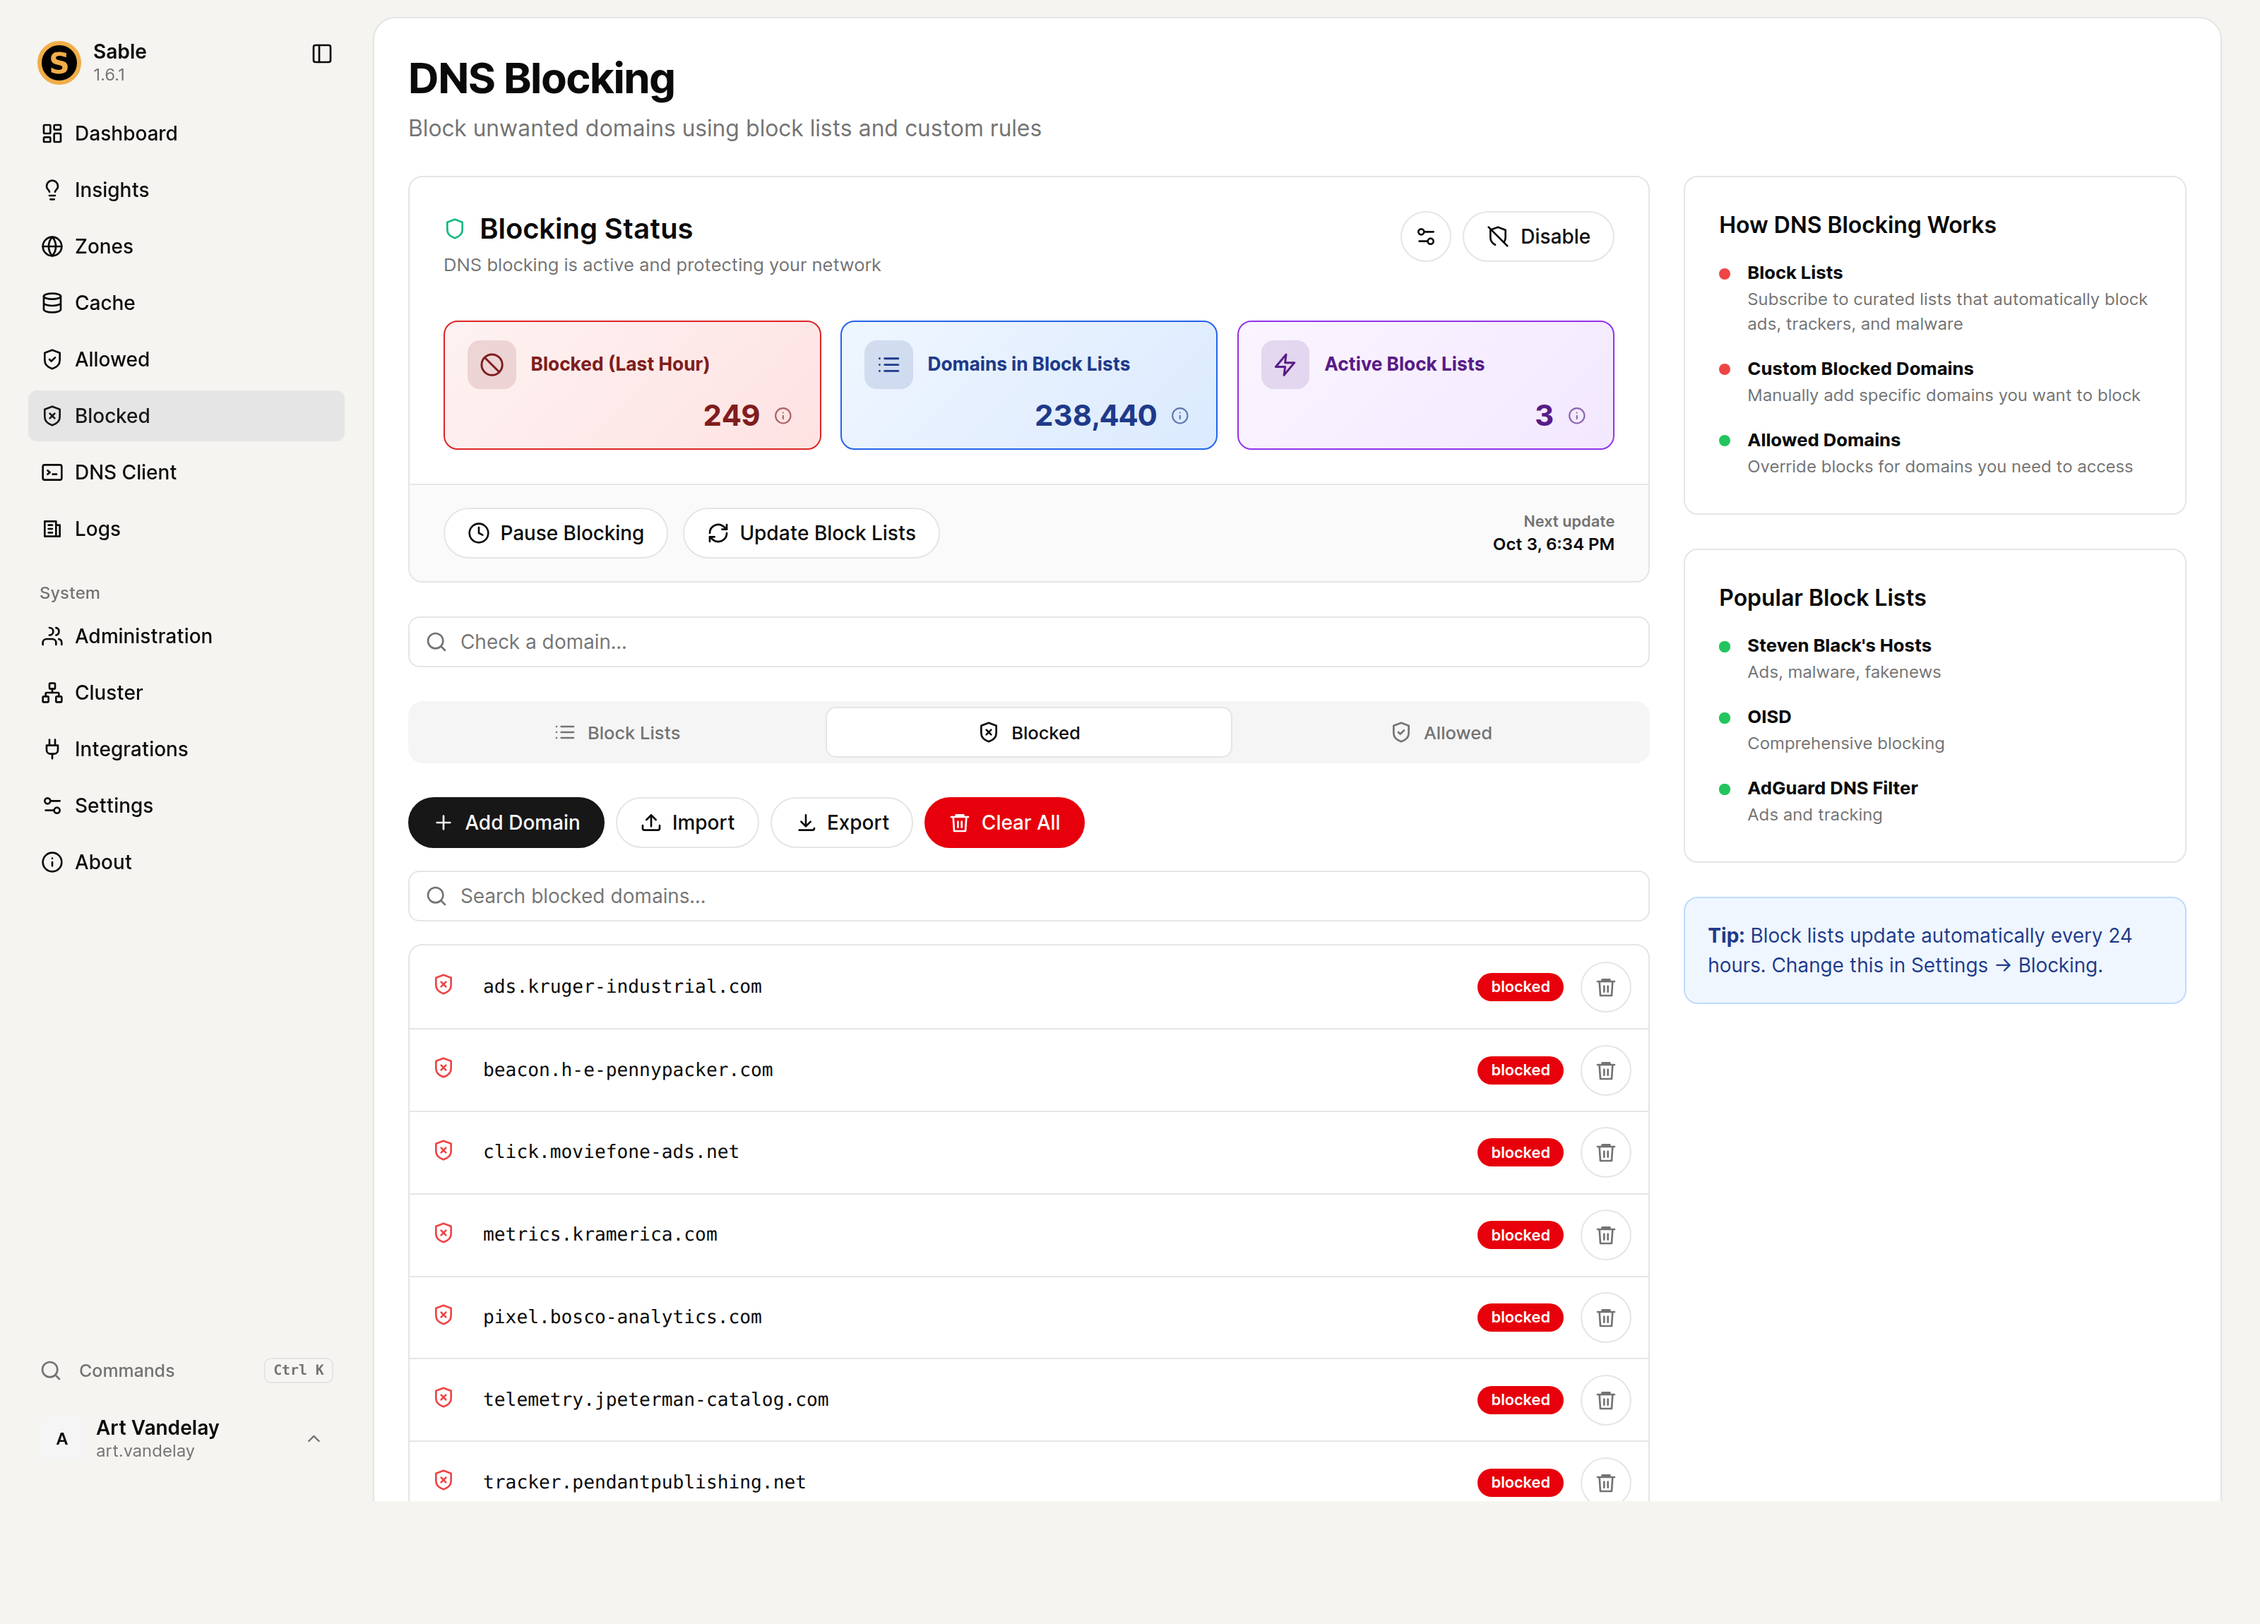
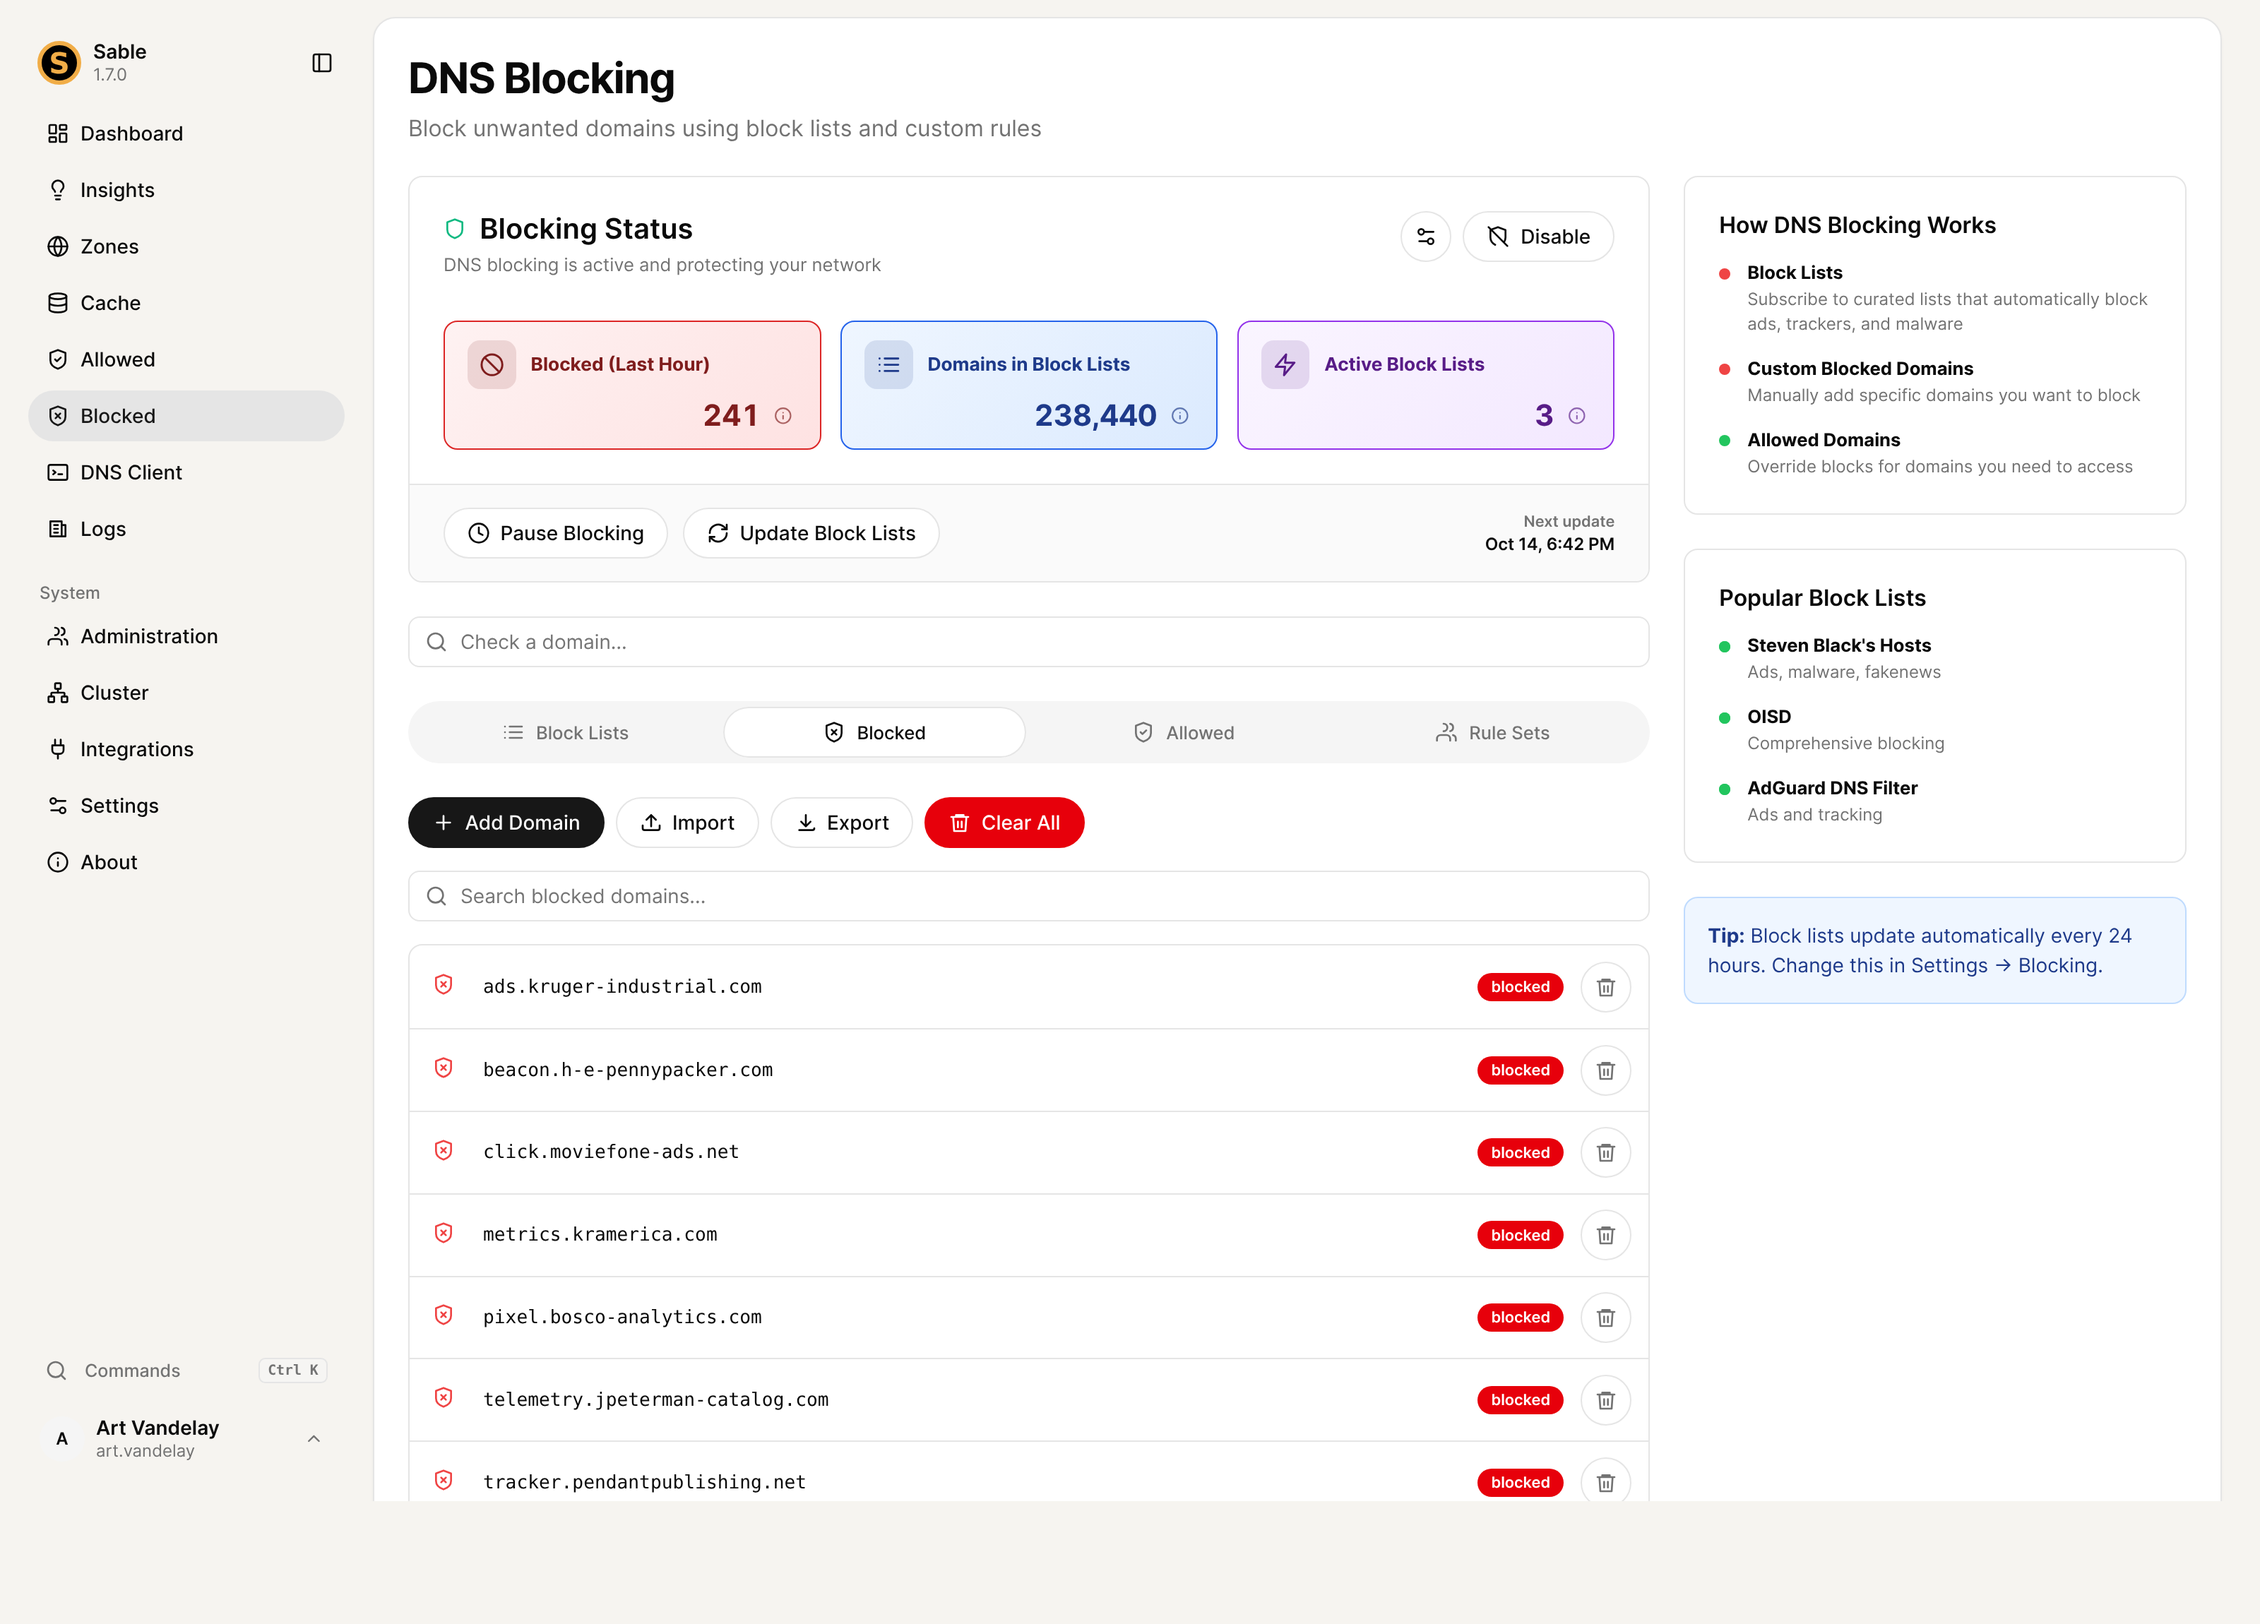
docs: refresh screenshots and guide versions for 1.7.0

diff --git a/docs/index.md b/docs/index.md
@@ -25,7 +25,7 @@ These guides cover Sable 1.7.0. [Download the release](https://github.com/drudge
 
 - [Migrate from Technitium](guides/technitium-migration.md) into a new instance or cluster using zone files or DNS transfers.
 
-Console screenshots are captured from Sable 1.6.1 using the disposable Vandelay demo deployment.
+Console screenshots are captured from Sable 1.7.0 using the disposable Vandelay demo deployment.
 
 ## Make DNS work for your network
 
